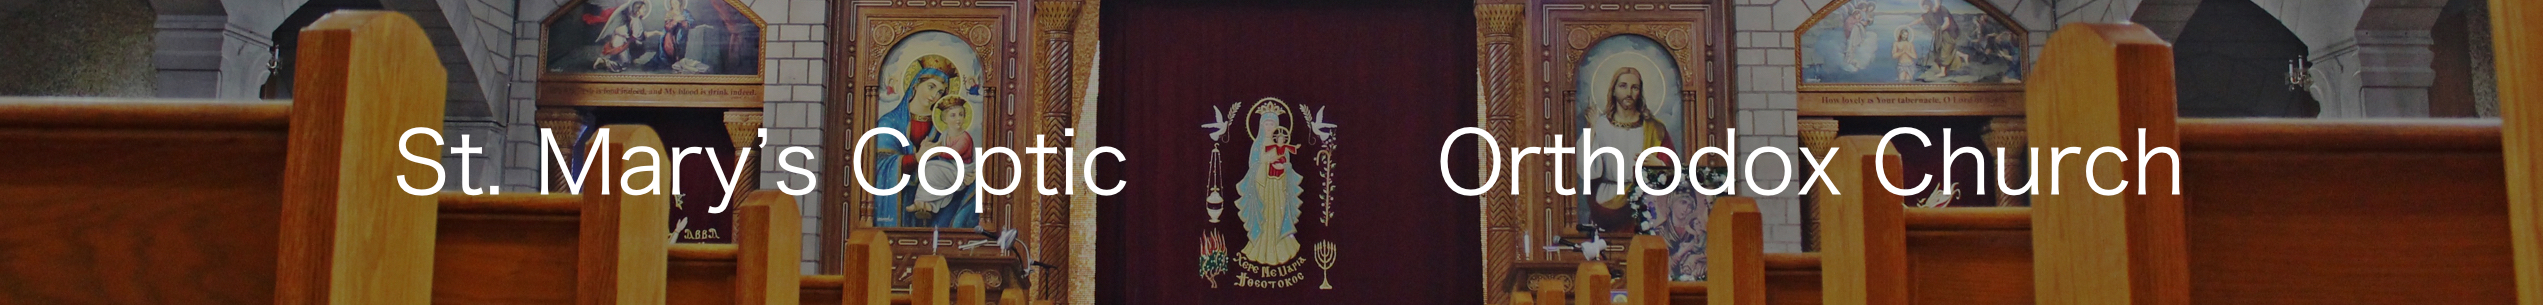
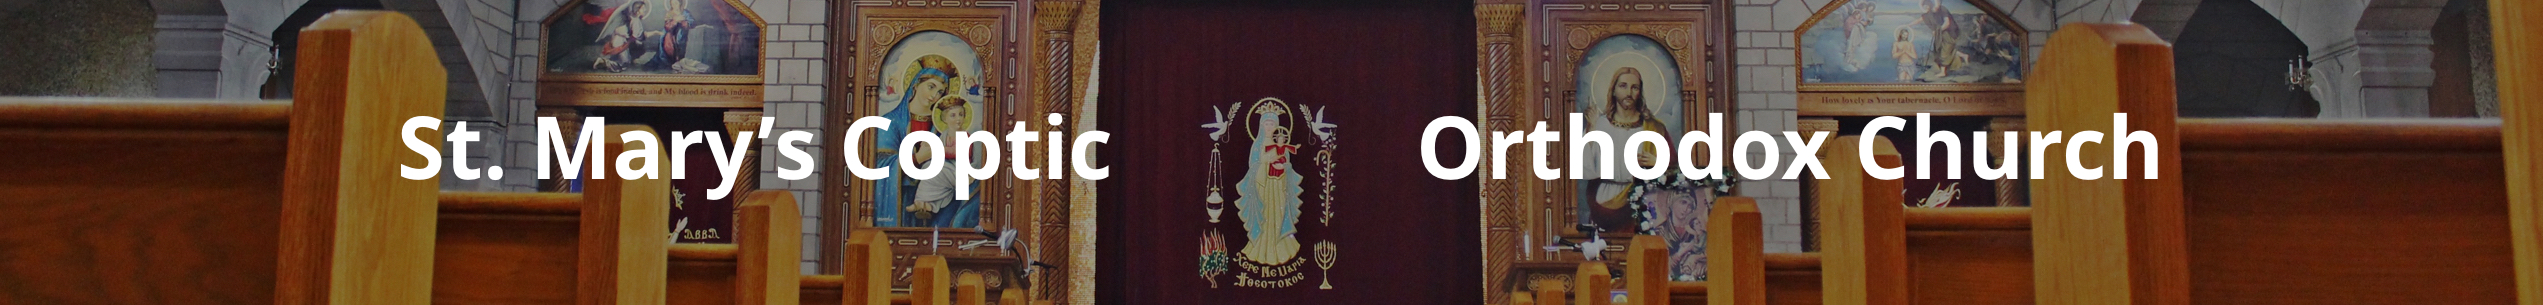
update church website

Changed region(s): [[0.5592, 0.3836, 0.8698, 0.6492], [0.1553, 0.3836, 0.466, 0.7082]]

diff --git a/ChurchWebsite/css/clean-blog.min.css b/ChurchWebsite/css/clean-blog.min.css
@@ -2,4 +2,4 @@
  * Start Bootstrap - Clean Blog v1.1.0 (http://startbootstrap.com/template-overviews/clean-blog)
  * Copyright 2013-2016 Start Bootstrap
  * Licensed under MIT (https://github.com/BlackrockDigital/startbootstrap/blob/gh-pages/LICENSE)
-*/ a,body{color:#333}.navbar-custom .nav li a,.navbar-custom .navbar-brand,h1,h2,h3,h4,h5,h6{font-weight:800}.caption,.intro-header .page-heading,.intro-header .site-heading,footer .copyright{text-align:center}body{font-family:Lora,'Times New Roman',serif;font-size:20px;-webkit-tap-highlight-color:#0085A1}.intro-header .page-heading .subheading,.intro-header .post-heading .subheading,.intro-header .site-heading .subheading,.navbar-custom,h1,h2,h3,h4,h5,h6{font-family:'Open Sans','Helvetica Neue',Helvetica,Arial,sans-serif}p{line-height:1.5;margin:30px 0}p a{text-decoration:underline}a:focus,a:hover{color:#0085A1}a img:focus,a img:hover{cursor:zoom-in}blockquote{color:#777;font-style:italic}hr.small{max-width:100px;margin:15px auto;border-width:4px;border-color:#fff}.navbar-custom{position:absolute;top:0;left:0;width:100%;z-index:3}.navbar-custom .navbar-header .navbar-toggle{color:#777;font-weight:800;text-transform:uppercase;font-size:12px}.navbar-custom .nav li a{text-transform:uppercase;font-size:12px;letter-spacing:1px}@media only screen and (min-width:768px){.navbar-custom{background:0 0;border-bottom:1px solid transparent}.navbar-custom .navbar-brand{color:#fff;padding:20px}.navbar-custom .navbar-brand:focus,.navbar-custom .navbar-brand:hover{color:rgba(255,255,255,.8)}.navbar-custom .nav li a{color:#fff;padding:20px}.navbar-custom .nav li a:focus,.navbar-custom .nav li a:hover{color:rgba(255,255,255,.8)}}@media only screen and (min-width:1170px){.navbar-custom{-webkit-transition:background-color .3s;-moz-transition:background-color .3s;transition:background-color .3s;-webkit-transform:translate3d(0,0,0);-moz-transform:translate3d(0,0,0);-ms-transform:translate3d(0,0,0);-o-transform:translate3d(0,0,0);transform:translate3d(0,0,0);-webkit-backface-visibility:hidden;backface-visibility:hidden}.navbar-custom.is-fixed{position:fixed;top:-61px;background-color:rgba(255,255,255,.9);border-bottom:1px solid #f2f2f2;-webkit-transition:-webkit-transform .3s;-moz-transition:-moz-transform .3s;transition:transform .3s}.navbar-custom.is-fixed .navbar-brand{color:#333}.navbar-custom.is-fixed .navbar-brand:focus,.navbar-custom.is-fixed .navbar-brand:hover{color:#0085A1}.navbar-custom.is-fixed .nav li a{color:#333}.navbar-custom.is-fixed .nav li a:focus,.navbar-custom.is-fixed .nav li a:hover{color:#0085A1}.navbar-custom.is-visible{-webkit-transform:translate3d(0,100%,0);-moz-transform:translate3d(0,100%,0);-ms-transform:translate3d(0,100%,0);-o-transform:translate3d(0,100%,0);transform:translate3d(0,100%,0)}}.intro-header{background:center center no-repeat;-webkit-background-size:cover;-moz-background-size:cover;background-size:cover;-o-background-size:cover;margin-bottom:50px}.intro-header .page-heading,.intro-header .post-heading,.intro-header .site-heading{padding:100px 0 50px;color:#fff}.intro-header .page-heading h1,.intro-header .site-heading h1{margin-top:0;font-size:50px}.intro-header .page-heading .subheading,.intro-header .site-heading .subheading{font-size:24px;line-height:1.1;display:block;font-weight:300;margin:10px 0 0}@media only screen and (min-width:768px){.intro-header .page-heading,.intro-header .post-heading,.intro-header .site-heading{padding:150px 0}.intro-header .page-heading h1,.intro-header .site-heading h1{font-size:80px}}.intro-header .post-heading h1{font-size:35px}.intro-header .post-heading .meta,.intro-header .post-heading .subheading{line-height:1.1;display:block}.intro-header .post-heading .subheading{font-size:24px;margin:10px 0 30px;font-weight:600}.intro-header .post-heading .meta{font-family:Lora,'Times New Roman',serif;font-style:italic;font-weight:300;font-size:20px}.intro-header .post-heading .meta a{color:#fff}@media only screen and (min-width:768px){.intro-header .post-heading h1{font-size:55px}.intro-header .post-heading .subheading{font-size:30px}}.post-preview>a{color:#333}.post-preview>a:focus,.post-preview>a:hover{text-decoration:none;color:#0085A1}.post-preview>a>.post-title{font-size:30px;margin-top:30px;margin-bottom:10px}.post-preview>a>.post-subtitle{margin:0 0 10px;font-weight:300}.post-preview>.post-meta{color:#777;font-size:18px;font-style:italic;margin-top:0}.post-preview>.post-meta>a{text-decoration:none;color:#333}.post-preview>.post-meta>a:focus,.post-preview>.post-meta>a:hover{color:#0085A1;text-decoration:underline}@media only screen and (min-width:768px){.post-preview>a>.post-title{font-size:36px}}.section-heading{font-size:36px;margin-top:60px;font-weight:700}.btn,.pager li>a,.pager li>span{font-family:'Open Sans','Helvetica Neue',Helvetica,Arial,sans-serif;text-transform:uppercase;font-weight:800;letter-spacing:1px}.caption{font-size:14px;padding:10px;font-style:italic;margin:0;display:block;border-bottom-right-radius:5px;border-bottom-left-radius:5px}footer{padding:50px 0 65px}footer .list-inline{margin:0;padding:0}footer .copyright{font-size:14px;margin-bottom:0}.floating-label-form-group{font-size:14px;position:relative;margin-bottom:0;padding-bottom:.5em;border-bottom:1px solid #eee}.floating-label-form-group input,.floating-label-form-group textarea{z-index:1;position:relative;padding-right:0;padding-left:0;border:none;border-radius:0;font-size:1.5em;background:0 0;box-shadow:none!important;resize:none}.floating-label-form-group label{display:block;z-index:0;position:relative;top:2em;margin:0;font-size:.85em;line-height:1.764705882em;vertical-align:middle;vertical-align:baseline;opacity:0;-webkit-transition:top .3s ease,opacity .3s ease;-moz-transition:top .3s ease,opacity .3s ease;-ms-transition:top .3s ease,opacity .3s ease;transition:top .3s ease,opacity .3s ease}.floating-label-form-group::not(:first-child){padding-left:14px;border-left:1px solid #eee}.floating-label-form-group-with-value label{top:0;opacity:1}.floating-label-form-group-with-focus label{color:#0085A1}form .row:first-child .floating-label-form-group{border-top:1px solid #eee}.btn{font-size:14px;border-radius:0;padding:15px 25px}.btn-lg{font-size:16px;padding:25px 35px}.btn-default:focus,.btn-default:hover{background-color:#0085A1;border:1px solid #0085A1;color:#fff}.pager{margin:20px 0 0}.pager li>a,.pager li>span{font-size:14px;padding:15px 25px;background-color:#fff;border-radius:0}.pager li>a:focus,.pager li>a:hover{color:#fff;background-color:#0085A1;border:1px solid #0085A1}.pager .disabled>a,.pager .disabled>a:focus,.pager .disabled>a:hover,.pager .disabled>span{color:#777;background-color:#333;cursor:not-allowed}::-moz-selection{color:#fff;text-shadow:none;background:#0085A1}::selection{color:#fff;text-shadow:none;background:#0085A1}img::selection{color:#fff;background:0 0}img::-moz-selection{color:#fff;background:0 0}
+*/ a,body{color:#333}.navbar-custom .nav li a,.navbar-custom .navbar-brand,h1,h2,h3,h4,h5,h6{font-weight:800}.caption,.intro-header .page-heading,.intro-header .site-heading,footer .copyright{text-align:center}body{font-family:Lora,'Times New Roman',serif;font-size:20px;-webkit-tap-highlight-color:#0085A1}.intro-header .page-heading .subheading,.intro-header .post-heading .subheading,.intro-header .site-heading .subheading,.navbar-custom,h1,h2,h3,h4,h5,h6{font-family:'Open Sans', 'Helvetica Neue',Helvetica,Arial,sans-serif}p{line-height:1.5;margin:30px 0}p a{text-decoration:underline}a:focus,a:hover{color:#0085A1}a img:focus,a img:hover{cursor:zoom-in}blockquote{color:#777;font-style:italic}hr.small{max-width:100px;margin:15px auto;border-width:4px;border-color:#fff}.navbar-custom{position:absolute;top:0;left:0;width:100%;z-index:3}.navbar-custom .navbar-header .navbar-toggle{color:#777;font-weight:800;text-transform:uppercase;font-size:12px}.navbar-custom .nav li a{text-transform:uppercase;font-size:12px;letter-spacing:1px}@media only screen and (min-width:768px){.navbar-custom{background:0 0;border-bottom:1px solid transparent}.navbar-custom .navbar-brand{color:#fff;padding:20px}.navbar-custom .navbar-brand:focus,.navbar-custom .navbar-brand:hover{color:rgba(255,255,255,.8)}.navbar-custom .nav li a{color:#fff;padding:20px}.navbar-custom .nav li a:focus,.navbar-custom .nav li a:hover{color:rgba(255,255,255,.8)}}@media only screen and (min-width:1170px){.navbar-custom{-webkit-transition:background-color .3s;-moz-transition:background-color .3s;transition:background-color .3s;-webkit-transform:translate3d(0,0,0);-moz-transform:translate3d(0,0,0);-ms-transform:translate3d(0,0,0);-o-transform:translate3d(0,0,0);transform:translate3d(0,0,0);-webkit-backface-visibility:hidden;backface-visibility:hidden}.navbar-custom.is-fixed{position:fixed;top:-61px;background-color:rgba(255,255,255,.9);border-bottom:1px solid #f2f2f2;-webkit-transition:-webkit-transform .3s;-moz-transition:-moz-transform .3s;transition:transform .3s}.navbar-custom.is-fixed .navbar-brand{color:#333}.navbar-custom.is-fixed .navbar-brand:focus,.navbar-custom.is-fixed .navbar-brand:hover{color:#0085A1}.navbar-custom.is-fixed .nav li a{color:#333}.navbar-custom.is-fixed .nav li a:focus,.navbar-custom.is-fixed .nav li a:hover{color:#0085A1}.navbar-custom.is-visible{-webkit-transform:translate3d(0,100%,0);-moz-transform:translate3d(0,100%,0);-ms-transform:translate3d(0,100%,0);-o-transform:translate3d(0,100%,0);transform:translate3d(0,100%,0)}}.intro-header{background:center center no-repeat;-webkit-background-size:cover;-moz-background-size:cover;background-size:cover;-o-background-size:cover;margin-bottom:50px}.intro-header .page-heading,.intro-header .post-heading,.intro-header .site-heading{padding:100px 0 50px;color:#fff}.intro-header .page-heading h1,.intro-header .site-heading h1{margin-top:0;font-size:50px}.intro-header .page-heading .subheading,.intro-header .site-heading .subheading{font-size:24px;line-height:1.1;display:block;font-weight:300;margin:10px 0 0}@media only screen and (min-width:768px){.intro-header .page-heading,.intro-header .post-heading,.intro-header .site-heading{padding:150px 0}.intro-header .page-heading h1,.intro-header .site-heading h1{font-size:80px}}.intro-header .post-heading h1{font-size:35px}.intro-header .post-heading .meta,.intro-header .post-heading .subheading{line-height:1.1;display:block}.intro-header .post-heading .subheading{font-size:24px;margin:10px 0 30px;font-weight:600}.intro-header .post-heading .meta{font-family:Lora,'Times New Roman',serif;font-style:italic;font-weight:300;font-size:20px}.intro-header .post-heading .meta a{color:#fff}@media only screen and (min-width:768px){.intro-header .post-heading h1{font-size:55px}.intro-header .post-heading .subheading{font-size:30px}}.post-preview>a{color:#333}.post-preview>a:focus,.post-preview>a:hover{text-decoration:none;color:#0085A1}.post-preview>a>.post-title{font-size:30px;margin-top:30px;margin-bottom:10px}.post-preview>a>.post-subtitle{margin:0 0 10px;font-weight:300}.post-preview>.post-meta{color:#777;font-size:18px;font-style:italic;margin-top:0}.post-preview>.post-meta>a{text-decoration:none;color:#333}.post-preview>.post-meta>a:focus,.post-preview>.post-meta>a:hover{color:#0085A1;text-decoration:underline}@media only screen and (min-width:768px){.post-preview>a>.post-title{font-size:36px}}.section-heading{font-size:36px;margin-top:60px;font-weight:700}.btn,.pager li>a,.pager li>span{font-family:'Open Sans','Helvetica Neue',Helvetica,Arial,sans-serif;text-transform:uppercase;font-weight:800;letter-spacing:1px}.caption{font-size:14px;padding:10px;font-style:italic;margin:0;display:block;border-bottom-right-radius:5px;border-bottom-left-radius:5px}footer{padding:50px 0 65px}footer .list-inline{margin:0;padding:0}footer .copyright{font-size:14px;margin-bottom:0}.floating-label-form-group{font-size:14px;position:relative;margin-bottom:0;padding-bottom:.5em;border-bottom:1px solid #eee}.floating-label-form-group input,.floating-label-form-group textarea{z-index:1;position:relative;padding-right:0;padding-left:0;border:none;border-radius:0;font-size:1.5em;background:0 0;box-shadow:none!important;resize:none}.floating-label-form-group label{display:block;z-index:0;position:relative;top:2em;margin:0;font-size:.85em;line-height:1.764705882em;vertical-align:middle;vertical-align:baseline;opacity:0;-webkit-transition:top .3s ease,opacity .3s ease;-moz-transition:top .3s ease,opacity .3s ease;-ms-transition:top .3s ease,opacity .3s ease;transition:top .3s ease,opacity .3s ease}.floating-label-form-group::not(:first-child){padding-left:14px;border-left:1px solid #eee}.floating-label-form-group-with-value label{top:0;opacity:1}.floating-label-form-group-with-focus label{color:#0085A1}form .row:first-child .floating-label-form-group{border-top:1px solid #eee}.btn{font-size:14px;border-radius:0;padding:15px 25px}.btn-lg{font-size:16px;padding:25px 35px}.btn-default:focus,.btn-default:hover{background-color:#0085A1;border:1px solid #0085A1;color:#fff}.pager{margin:20px 0 0}.pager li>a,.pager li>span{font-size:14px;padding:15px 25px;background-color:#fff;border-radius:0}.pager li>a:focus,.pager li>a:hover{color:#fff;background-color:#0085A1;border:1px solid #0085A1}.pager .disabled>a,.pager .disabled>a:focus,.pager .disabled>a:hover,.pager .disabled>span{color:#777;background-color:#333;cursor:not-allowed}::-moz-selection{color:#fff;text-shadow:none;background:#0085A1}::selection{color:#fff;text-shadow:none;background:#0085A1}img::selection{color:#fff;background:0 0}img::-moz-selection{color:#fff;background:0 0}

diff --git a/ChurchWebsite/festival-092416.html b/ChurchWebsite/festival-092416.html
@@ -32,9 +32,11 @@
 </head>
 
 <body>
-
-    <!-- Navigation -->
-    <nav class="navbar navbar-default navbar-custom navbar-fixed-top">
+<div>
+        <img class = "banner" src = "img/mainphotodark.jpg">
+    </div>
+    
+    <nav class="navbar navbar-default navbar-mine">
         <div class="container-fluid">
             <!-- Brand and toggle get grouped for better mobile display -->
             <div class="navbar-header page-scroll">
@@ -61,28 +63,11 @@
         </div>
         <!-- /.container -->
     </nav>
-
-    <!-- Page Header -->
-    <!-- Set your background image for this header on the line below. -->
-    <header class="intro-header" style="background-image: url('img/mainchurchdark.png')">
-        <div class="container">
-            <div class="row">
-                <div class="col-lg-8 col-lg-offset-2 col-md-10 col-md-offset-1">
-                    <div class="page-heading">
-                        <h1>Ambridge Churches Festival</h1>
-                        <hr class="small">
-                        <span class="subheading">Saturday, September 24 @ 8:00 am</span>
-                    </div>
-                </div>
-            </div>
-        </div>
-    </header>
-
     <!-- Main Content -->
     <div class="container">
         <div class="row">
             <div class="col-lg-8 col-lg-offset-2 col-md-10 col-md-offset-1">
-                <h1 class="section-heading">Schedule</h1>
+                <h2 class="section-heading">Schedule</h2>
                 <p>The day will begin with a church parade at 10:00 am, and will conclude around 8:00 pm. It will take place at the park on the corner of 11th Street and Merchant Avenue (in Ambridge), one block from the church. Many of the different churches will have booths which sell ethnic food and crafts, put on performances, contain free petting zoos and put on other activities for kids. Our church will have a table selling food and religious/cultural items. We should have fun and decorate our booth and share our wonderful culture with the community!  We need help to prepare the food ahead of time and to work the booth during the festival.</p>
                 <h1 class="section-heading">Sign-Up to Bring Food</h1>
                 <p>Ideas for what to bring: stuffed grape leaves, falafel sandwiches, grilled chicken and kofta sandwiches, spinach and cheese pies, baklava, cookies, etc.</p>

diff --git a/ChurchWebsite/logos.html b/ChurchWebsite/logos.html
@@ -58,9 +58,11 @@
 </head>
 
 <body>
-
-    <!-- Navigation -->
-    <nav class="navbar navbar-default navbar-custom navbar-fixed-top">
+<div>
+        <img class = "banner" src = "img/mainphotodark.jpg">
+    </div>
+    
+    <nav class="navbar navbar-default navbar-mine">
         <div class="container-fluid">
             <!-- Brand and toggle get grouped for better mobile display -->
             <div class="navbar-header page-scroll">
@@ -75,7 +77,7 @@
             <div class="collapse navbar-collapse" id="bs-example-navbar-collapse-1">
                 <ul class="nav navbar-nav navbar-right">
                     <li><a href="schedule.html">SCHEDULE</a></li>
-                        <li><a href="videos.html">VIDEOS</a></li>
+                        <li class="active"><a href="videos.html">VIDEOS</a></li>
                         <li><a href="allforone.html">ALL FOR ONE</a></li>
                         <li><a href="logos.html">LOGOS RETREAT</a></li>
                         <li><a href="about.html">ABOUT</a></li>
@@ -87,23 +89,6 @@
         </div>
         <!-- /.container -->
     </nav>
-
-    <!-- Page Header -->
-    <!-- Set your background image for this header on the line below. -->
-    <header class="intro-header" style="background-image: url('img/mainchurchdark.png')">
-        <div class="container">
-            <div class="row">
-                <div class="col-lg-8 col-lg-offset-2 col-md-10 col-md-offset-1">
-                    <div class="page-heading">
-                        <h1>The Logos Retreat</h1>
-                        <hr class="small">
-                        <span class="subheading">Ft. H.G. Bishop Angelos</span>
-                    </div>
-                </div>
-            </div>
-        </div>
-    </header>
-
     <!-- Main Content -->
     <div class="container">
         <div class="row">

diff --git a/ChurchWebsite/contact.html b/ChurchWebsite/contact.html
@@ -33,7 +33,11 @@
 <body>
 
     <!-- Navigation -->
-    <nav class="navbar navbar-default navbar-custom navbar-fixed-top">
+    <div>
+        <img class = "banner" src = "img/mainphotodark.jpg">
+    </div>
+    
+    <nav class="navbar navbar-default navbar-mine">
         <div class="container-fluid">
             <!-- Brand and toggle get grouped for better mobile display -->
             <div class="navbar-header page-scroll">
@@ -53,29 +57,13 @@
                         <li><a href="logos.html">LOGOS RETREAT</a></li>
                         <li><a href="about.html">ABOUT</a></li>
                         <li><a href="subscribe.html">SUBSCRIBE</a></li>
-                        <li><a href="contact.html">CONTACT</a></li>
+                        <li class="active"><a href="contact.html">CONTACT</a></li>
                 </ul>
             </div>
             <!-- /.navbar-collapse -->
         </div>
         <!-- /.container -->
     </nav>
-
-    <!-- Page Header -->
-    <!-- Set your background image for this header on the line below. -->
-    <header class="intro-header" style="background-image: url('img/mainchurchdark.png')">
-        <div class="container">
-            <div class="row">
-                <div class="col-lg-8 col-lg-offset-2 col-md-10 col-md-offset-1">
-                    <div class="page-heading">
-                        <h1>Contact Us!</h1>
-                        <hr class="small">
-                        <span class="subheading">Questions? Comments? Concerns? Let us know below!</span>
-                    </div>
-                </div>
-            </div>
-        </div>
-    </header>
 
     <!-- Main Content -->
     <div class="container">
